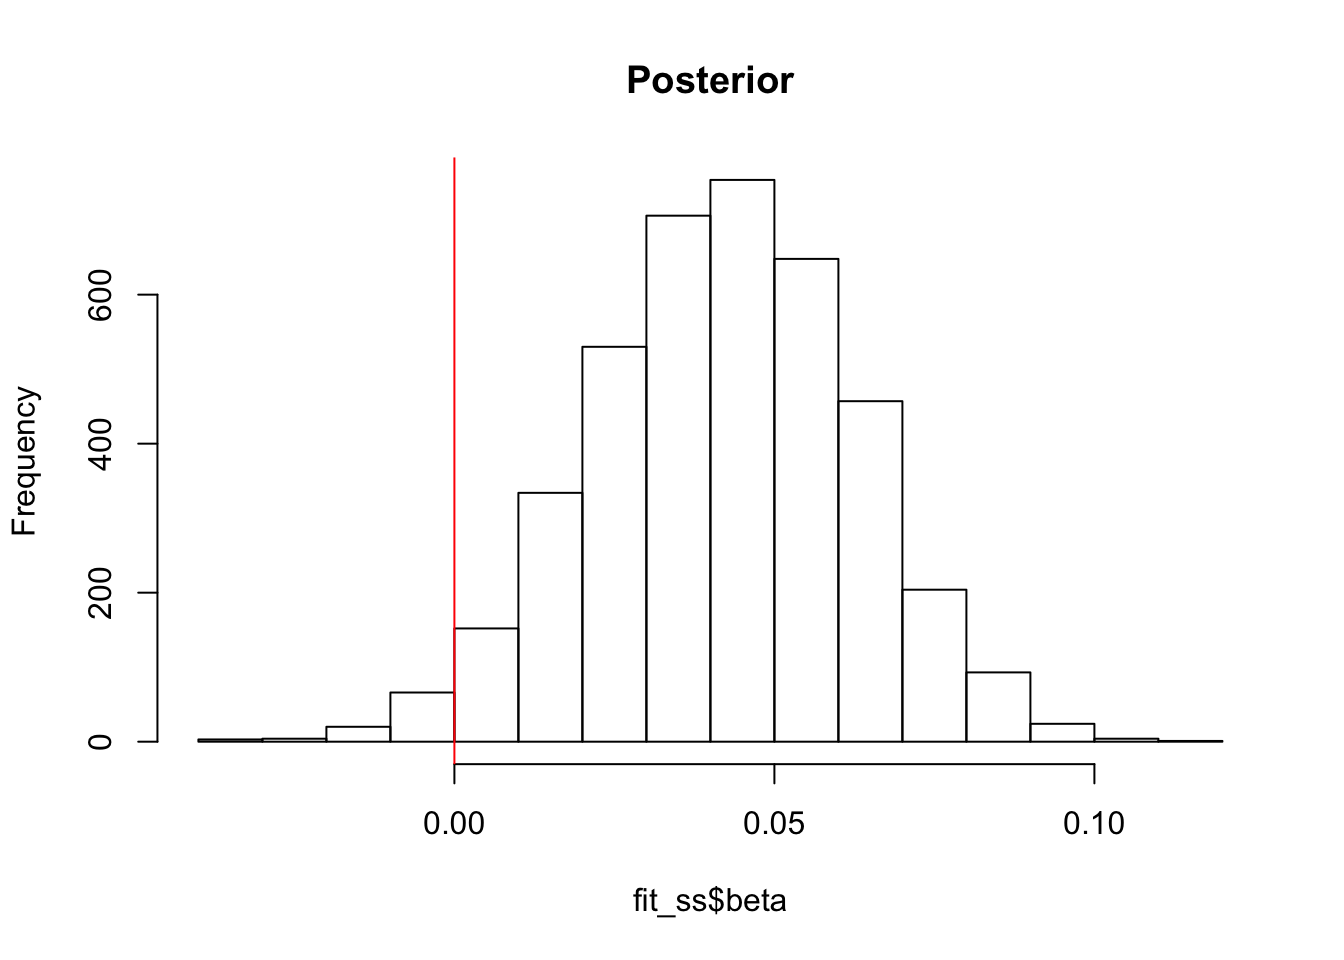
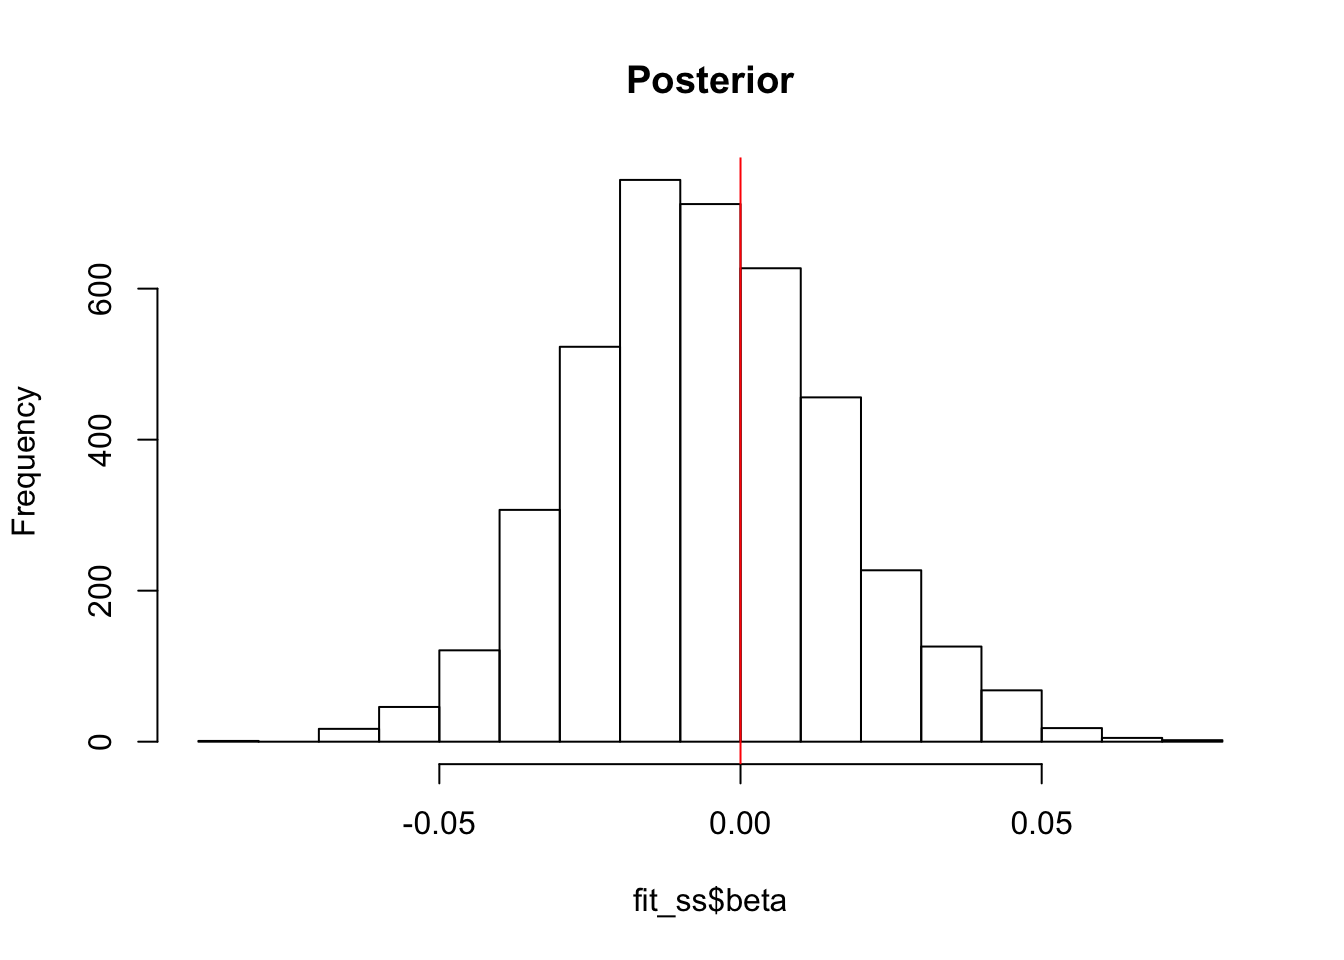
Build site.

diff --git a/docs/STAN_model_strat.html b/docs/STAN_model_strat.html
@@ -411,7 +411,7 @@ div.section {
 <div class="tab-content">
 <div id="summary" class="tab-pane fade in active">
 <p>
-<strong>Last updated:</strong> 2020-05-12
+<strong>Last updated:</strong> 2020-06-01
 </p>
 <p>
 <strong>Checks:</strong> <span class="glyphicon glyphicon-ok text-success" aria-hidden="true"></span> 7 <span class="glyphicon glyphicon-exclamation-sign text-danger" aria-hidden="true"></span> 0
@@ -502,10 +502,10 @@ This reproducible <a href="http://rmarkdown.rstudio.com">R Markdown</a> analysis
 <div class="panel panel-default">
 <div class="panel-heading">
 <p class="panel-title">
-<a data-toggle="collapse" data-parent="#workflowr-checks" href="#strongRepositoryversionstrongahrefhttpsgithubcomjgblancinfermutationalbiastree2a19adc1366f5d9d9cecd613b36caec96a5ce837targetblank2a19adca"> <span class="glyphicon glyphicon-ok text-success" aria-hidden="true"></span> <strong>Repository version:</strong> <a href="https://github.com/jgblanc/infer_mutational_bias/tree/2a19adc1366f5d9d9cecd613b36caec96a5ce837" target="_blank">2a19adc</a> </a>
+<a data-toggle="collapse" data-parent="#workflowr-checks" href="#strongRepositoryversionstrongahrefhttpsgithubcomjgblancinfermutationalbiastreed9fae30d08d966d1d2844a6e1fcbbceb0c46ad9atargetblankd9fae30a"> <span class="glyphicon glyphicon-ok text-success" aria-hidden="true"></span> <strong>Repository version:</strong> <a href="https://github.com/jgblanc/infer_mutational_bias/tree/d9fae30d08d966d1d2844a6e1fcbbceb0c46ad9a" target="_blank">d9fae30</a> </a>
 </p>
 </div>
[2 lines of base64/hex data omitted]
 <div class="panel-body">
 <p>
 Great! You are using Git for version control. Tracking code development and connecting the code version to the results is critical for reproducibility. The version displayed above was the version of the Git repository at the time these results were generated. <br><br> Note that you need to be careful to ensure that all relevant files for the analysis have been committed to Git prior to generating the results (you can use <code>wflow_publish</code> or <code>wflow_git_commit</code>). workflowr only checks the R Markdown file, but you know if there are other scripts or data files that it depends on. Below is the status of the Git repository when the results were generated:
@@ -526,10 +526,9 @@ Ignored files:
     Ignored:    code/parse_gwas_atlas_nonsig/.DS_Store
     Ignored:    data/.ipynb_checkpoints/
     Ignored:    data/1000G_20101123_v3_GIANT_chr1_23_minimacnamesifnotRS_CEU_MAF0.01/
-    Ignored:    data/47UKBB/
     Ignored:    data/ALL.chr1.phase3_shapeit2_mvncall_integrated_v5a.20130502.genotypes.EUR/
-    Ignored:    data/BBJ/
     Ignored:    data/GWAS_ATLAS/
+    Ignored:    data/LD_Blocks/
     Ignored:    data/STRAT/
     Ignored:    data/UKBB/
     Ignored:    output/.DS_Store
@@ -599,10 +598,22 @@ Untracked files:
     Untracked:  .snakemake/metadata/b3V0cHV0L0dXQVNfQVRMQVMvcHJ1bmVkL2hlaWdodF8xNDJfMC4wMDAxLnBydW5lLmlu
     Untracked:  .snakemake/metadata/b3V0cHV0L0dXQVNfQVRMQVMvcHJ1bmVkL3NjaGl6b3BocmVuaWFfMzk4Ml8wLjAwMDEucHJ1bmUuaW4=
     Untracked:  .snakemake/scripts/tmp7997be50.get_evolutionary_information_from_1kg_GWAS_ATLAS.py
+    Untracked:  analysis/GWAS_Atlas_LD_Blocks.Rmd
+    Untracked:  analysis/Instrumental_variable.Rmd
+    Untracked:  analysis/LD_Block_Jacknife.Rmd
     Untracked:  analysis/test.Rmd
+    Untracked:  code/LD_Block/
     Untracked:  code/parse_gwas_atlas_nonsig/height_142.R
+    Untracked:  code/pc_regression.rds
+    Untracked:  code/pc_regression.stan
+    Untracked:  code/pc_regression_da.rds
+    Untracked:  code/pc_regression_da.stan
+    Untracked:  code/pc_regression_gwas.R
+    Untracked:  code/pc_regression_parameters.R
     Untracked:  code/rsID_Pos_conversion.py
     Untracked:  code/rsID_Pos_conversion.py~
+    Untracked:  output/GWAS_ATLAS_ANNOTATED/
+    Untracked:  output/PC_REG/
 
 Unstaged changes:
     Modified:   .snakemake/metadata/b3V0cHV0L1NUUkFUL3BydW5lZC9jaHIxX0VVUl8wLjA1LmVpZ2VudmVjLnZhci5EQS5wcnVuZS5pbg==
@@ -614,6 +625,10 @@ Unstaged changes:
     Modified:   analysis/GWAS_ATLAS_results.Rmd
     Modified:   analysis/Stratification.Rmd
     Modified:   analysis/shift_GWAS_ATLAS.Rmd
+    Deleted:    code/Untitled.ipynb
+    Deleted:    code/make_DA_dict.py
+    Deleted:    code/make_DA_dict.py~
+    Modified:   code/parse_gwas_atlas/schizophrenia_3982.R
     Modified:   code/parse_gwas_atlas_nonsig/CAD_3925.R
     Modified:   code/parse_gwas_atlas_nonsig/T2D_4085.R
     Modified:   code/parse_gwas_atlas_nonsig/UC_2030.R
@@ -658,6 +673,40 @@ Message
 </tr>
 </thead>
 <tbody>
+<tr>
+<td>
+Rmd
+</td>
+<td>
+<a href="https://github.com/jgblanc/infer_mutational_bias/blob/d9fae30d08d966d1d2844a6e1fcbbceb0c46ad9a/analysis/STAN_model_strat.Rmd" target="_blank">d9fae30</a>
+</td>
+<td>
+jgblanc
+</td>
+<td>
+2020-06-01
+</td>
+<td>
+work
+</td>
+</tr>
+<tr>
+<td>
+html
+</td>
+<td>
+<a href="https://rawcdn.githack.com/jgblanc/infer_mutational_bias/9222112d705e427a763601d5bde4e9ed88e19ac7/docs/STAN_model_strat.html" target="_blank">9222112</a>
+</td>
+<td>
+jgblanc
+</td>
+<td>
+2020-05-12
+</td>
+<td>
+Build site.
+</td>
+</tr>
 <tr>
 <td>
 Rmd
@@ -750,14 +799,15 @@ added new stan model
 </div>
 </div>
 </div>
-<div id="intro" class="section level2">
-<h2>Intro</h2>
+<div id="model" class="section level2">
+<h2>Model</h2>
 <p>Model:</p>
-<p><span class="math display">\[\vec{\hat{\beta}} = \vec{\beta_T} + \sum_i \lambda_i^{1/2} \vec{V} \beta_i + \vec{e}\]</span></p>
+<p><span class="math display">\[\vec{\hat{\beta}} = \vec{\beta_T} + \sum_i \lambda_i^{-1/2} \vec{V} \beta_i + \vec{e}\]</span></p>
 <p><span class="math display">\[D_l = 1 \text{   if  } \beta_l &gt; 0\]</span> <span class="math display">\[D_l = 0 \text{   if  } \beta_l &lt; 0\]</span></p>
 <p><span class="math display">\[R = \sum_lD_l\]</span></p>
 <p><span class="math display">\[R \sim Bin(1/2, L)\]</span></p>
-<p><span class="math display">\[\hat{\beta} = \beta + \sum_i \lambda_i^{1/2} V \beta_i + e\]</span></p>
+<p>For a single site:</p>
+<p><span class="math display">\[\hat{\beta} = \beta + \sum_i \lambda_i^{-1/2} V \beta_i + e\]</span></p>
 </div>
 <div id="functions-to-simulate-data" class="section level2">
 <h2>Functions to Simulate Data</h2>
@@ -789,7 +839,7 @@ added new stan model
 <pre class="stan"><code>functions {  
   real my_ll_lpmf(int R, int L, real b){
     real lprob;
-    lprob = lchoose(L, R) + log((b)^(R)) + log((1 - b)^(L - R));
+    lprob = lchoose(L, R) + (R*log(b)) + ((L - R)*log(1 - b));
     return lprob;
   }
 }
@@ -810,7 +860,6 @@ model {
   real true_causal;
   R = 0;
   est_beta = x*beta;
-  //print(R, true_beta);
   for (i in 1:L) {
     true_causal = y[i] - est_beta[i];
     if (true_causal &gt; 0) {
@@ -830,7 +879,7 @@ model {
   loadings &lt;- simulate_loadings(L = L, n = n, loading_mean = loading_mean, loading_sd = loading_sd)
   Bhat &lt;- calc_beta_hat(L = L, n = n, Btrue = Btrue, Bpc = Bpc, epsilon_sd = epsilon_sd, loadings = loadings)
   data &lt;- list(y = Bhat, L = L, n = n, x = t(loadings), b=b)
-  fit &lt;- sampling(simple, data = data, refresh = 0, chains=4)
+  fit &lt;- sampling(simple, data = data, chains=4, refresh = 0) #refresh = 0
   return(fit)
 }</code></pre>
 </div>
@@ -923,17 +972,9 @@ jgblanc
 </div>
 </div>
 <p>4 PCs no effects</p>
-<pre class="r"><code>mod &lt;- fit_model(L = 1000, n = 4, loading_mean = 1, loading_sd = 1, Bpc = rep(0,4), epsilon_sd = 1, Btrue = rep(0, 1000), b=0.5)</code></pre>
-<pre><code>Warning: There were 3950 transitions after warmup that exceeded the maximum treedepth. Increase max_treedepth above 10. See
-http://mc-stan.org/misc/warnings.html#maximum-treedepth-exceeded</code></pre>
-<pre><code>Warning: Examine the pairs() plot to diagnose sampling problems</code></pre>
-<pre><code>Warning: Bulk Effective Samples Size (ESS) is too low, indicating posterior means and medians may be unreliable.
-Running the chains for more iterations may help. See
-http://mc-stan.org/misc/warnings.html#bulk-ess</code></pre>
-<pre><code>Warning: Tail Effective Samples Size (ESS) is too low, indicating posterior variances and tail quantiles may be unreliable.
-Running the chains for more iterations may help. See
-http://mc-stan.org/misc/warnings.html#tail-ess</code></pre>
-<pre class="r"><code>fit_ss &lt;- extract(mod)
+<pre class="r"><code>mod &lt;- fit_model(L = 1000, n = 4, loading_mean = 1, loading_sd = 1, Bpc = rep(0,4), epsilon_sd = 1, Btrue = rep(0, 1000), b=0.5)
+
+fit_ss &lt;- extract(mod)
 beta &lt;- fit_ss$beta
 par(mfrow = c(2,2))
 hist(beta[,1])
@@ -1056,6 +1097,112 @@ jgblanc
 </table>
 </div>
 </div>
+</div>
+<div id="real-loading-data" class="section level2">
+<h2>Real Loading Data</h2>
+<p>Now that we have tested our model on simulated data, let’s use real SNP loadings and eigenvalues but stick with a simulated GWAS where there are no true causal SNPs. We will run the model for 1,000 SNPs and n=10 PCs</p>
+<pre class="r"><code># Load SNP Loadings + Eigenvalues 
+gwas &lt;- fread(&quot;../output/GWAS_ATLAS_ANNOTATED/test_loadings.txt&quot;)
+evals &lt;- fread(&quot;../output/GWAS_ATLAS_ANNOTATED/EUR_0.01.eigenval&quot;)
+
+# Take 1,000 SNPS and only the loadings
+loadings &lt;- as.matrix(gwas[1:1000,21:30])
+
+# Mean Loading for all 10 PCs
+colMeans(loadings)</code></pre>
+<pre><code>        PC1         PC2         PC3         PC4         PC5         PC6 
+-0.04021341  0.01811280  0.02114615 -0.04767877 -0.02810305  0.03964168 
+        PC7         PC8         PC9        PC10 
+-0.03706557  0.04877190 -0.01101306  0.04824812 </code></pre>
+<pre class="r"><code># Simulate a set of Beta Hats with all Bpc = 0
+Bhat &lt;- calc_beta_hat(L=nrow(loadings), n=10, Btrue = rep(0,nrow(loadings)), Bpc = rep(0,10), epsilon_sd = 1, loadings = t(loadings))
+
+# Weight loadings by sqrt(eigenvalue)
+wloadings &lt;- loadings
+for (i in 1:10) {
+  wloadings[,i] &lt;- as.numeric(sqrt(evals[i,1])) * loadings[,i]
+}
+
+# Fit Model 
+data &lt;- list(y = Bhat, L = nrow(wloadings), n = 10, x = loadings, b=0.5)
+fit &lt;- sampling(simple, data = data, chains=4, refresh = 0)</code></pre>
+<pre class="r"><code># Extract posterior samples
+fit_ss &lt;- extract(fit)$beta
+
+# Posterior Means
+bpos &lt;- colMeans(fit_ss)
+bpos</code></pre>
+<pre><code> [1] -0.010058215  0.038589907  0.038404114  0.006984415  0.029433218
+ [6]  0.044376371  0.063833628  0.018800777  0.013935411  0.007542575</code></pre>
+<pre class="r"><code># Calculate True Effect Sizes (should be 0)
+true &lt;- Bhat -  wloadings %*% bpos
+hist(true)</code></pre>
+<p><img src="figure/STAN_model_strat.Rmd/unnamed-chunk-12-1.png" width="672" style="display: block; margin: auto;" /></p>
+<p>Now let’s repeat the whole process but also simulate a stratification effect along PC 2 <span class="math inline">\(\beta_{PC2} = 1\)</span></p>
+<pre class="r"><code># Simulate a set of Beta Hats with all Bpc = 0
+Bpc &lt;- rep(0,10)
+Bpc[2] &lt;- 1
+Bhat &lt;- calc_beta_hat(L=nrow(loadings), n=10, Btrue = rep(0,nrow(loadings)), Bpc = Bpc, epsilon_sd = 1, loadings = t(loadings))
+
+# Fit Model 
+data &lt;- list(y = Bhat, L = nrow(wloadings), n = 10, x = loadings, b=0.5)
+fit &lt;- sampling(simple, data = data, chains=4, refresh = 0 )</code></pre>
+<pre class="r"><code># Extract posterior samples
+fit_ss &lt;- extract(fit)$beta
+
+# Posterior Means
+bpos &lt;- colMeans(fit_ss)
+bpos</code></pre>
+<pre><code> [1] -0.074465397  1.002352839 -0.022841057  0.060906720 -0.013521199
+ [6]  0.026057472 -0.037018837  0.005576999 -0.064826509  0.012216425</code></pre>
+<pre class="r"><code># Calculate True Effect Sizes (should be 0)
+true &lt;- Bhat -  wloadings %*% bpos
+hist(true)</code></pre>
+<p><img src="figure/STAN_model_strat.Rmd/unnamed-chunk-14-1.png" width="672" style="display: block; margin: auto;" /></p>
+</div>
+<div id="real-gwas-data" class="section level2">
+<h2>Real GWAS Data</h2>
+<p>Finally, we will use actual GWAS effect size estimates. Like the loadings, all effect sizes have been polarized to be the effect of the derived allele. For now, we will run the model on a single LD block (num_snps = 1368) with 10 principal components.</p>
+<pre class="r"><code># Pick single LD block
+gwas_block &lt;- subset(gwas, gwas$LD_Block == 653)
+
+# Mean Loading 
+loadings &lt;- as.matrix(gwas_block[,21:30])
+colMeans(loadings)</code></pre>
+<pre><code>         PC1          PC2          PC3          PC4          PC5          PC6 
+ 0.005813129 -0.158050840  0.253824005 -0.173507468  0.210143126  0.410926552 
+         PC7          PC8          PC9         PC10 
+-0.082428311  0.188188663  0.059780068 -0.212362135 </code></pre>
+<pre class="r"><code># Look at Manhattan Plot 
+dat &lt;- gwas_block[,c(&quot;BP&quot;, &quot;P&quot;, &quot;Risk_Derived&quot;, &quot;RAF&quot;, &quot;ES_Derived&quot;)]
+ggplot(dat, aes(x=BP,y=-log10(P), col = Risk_Derived)) + geom_point()</code></pre>
+<p><img src="figure/STAN_model_strat.Rmd/unnamed-chunk-15-1.png" width="672" style="display: block; margin: auto;" /></p>
+<pre class="r"><code>ggplot(dat, aes(x=RAF,y=abs(ES_Derived), col = Risk_Derived)) + geom_point()</code></pre>
+<p><img src="figure/STAN_model_strat.Rmd/unnamed-chunk-15-2.png" width="672" style="display: block; margin: auto;" /></p>
+<pre class="r"><code># Weight loadings by sqrt(eigenvalue)
+wloadings &lt;- loadings
+for (i in 1:10) {
+  wloadings[,i] &lt;- as.numeric(sqrt(evals[i,1])) * loadings[,i]
+}
+
+# Fit Model 
+data &lt;- list(y = gwas_block$ES_Derived, L = nrow(wloadings), n = 10, x = loadings, b=0.5)
+#fit &lt;- sampling(simple, data = data, chains=4)
+#saveRDS(fit,&quot;~/Desktop/stan_block653&quot;)</code></pre>
+<pre class="r"><code>fit &lt;- readRDS(&quot;~/Desktop/stan_block653&quot;)
+# Posterior Means 
+bs &lt;- as.matrix(extract(fit)$beta) 
+bpos &lt;- colMeans(bs)
+
+# Calculate True beta
+true &lt;- gwas_block$ES_Derived - wloadings %*% bpos
+gwas_block$true &lt;- true
+
+# Plot
+ggplot(gwas_block, aes(x=RAF,y=abs(true), col = Risk_Derived)) + geom_point()</code></pre>
+<p><img src="figure/STAN_model_strat.Rmd/unnamed-chunk-17-1.png" width="672" style="display: block; margin: auto;" /></p>
+<pre class="r"><code>ggplot(gwas_block, aes(x=ES_Derived,y=true, col = Risk_Derived)) + geom_point()</code></pre>
+<p><img src="figure/STAN_model_strat.Rmd/unnamed-chunk-17-2.png" width="672" style="display: block; margin: auto;" /></p>
 <br>
 <p>
 <button type="button" class="btn btn-default btn-workflowr btn-workflowr-sessioninfo" data-toggle="collapse" data-target="#workflowr-sessioninfo" style="display: block;">
@@ -1079,8 +1226,8 @@ attached base packages:
 [1] stats     graphics  grDevices utils     datasets  methods   base     
 
 other attached packages:
-[1] rstan_2.19.3         ggplot2_3.2.1        StanHeaders_2.21.0-1
-[4] workflowr_1.6.0     
+[1] data.table_1.12.8    rstan_2.19.3         ggplot2_3.2.1       
+[4] StanHeaders_2.21.0-1 workflowr_1.6.0     
 
 loaded via a namespace (and not attached):
  [1] Rcpp_1.0.3         compiler_3.6.2     pillar_1.4.3       later_1.0.0       
@@ -1088,15 +1235,15 @@ loaded via a namespace (and not attached):
  [9] digest_0.6.25      evaluate_0.14      lifecycle_0.1.0    tibble_2.1.3      
 [13] gtable_0.3.0       pkgconfig_2.0.3    rlang_0.4.4        cli_2.0.1         
 [17] parallel_3.6.2     yaml_2.2.1         xfun_0.12          loo_2.2.0         
-[21] gridExtra_2.3      withr_2.1.2        stringr_1.4.0      dplyr_0.8.4       
+[21] gridExtra_2.3      withr_2.1.2        stringr_1.4.0      dplyr_0.8.5       
 [25] knitr_1.28         fs_1.3.1           stats4_3.6.2       rprojroot_1.3-2   
 [29] grid_3.6.2         tidyselect_1.0.0   inline_0.3.15      glue_1.3.1        
 [33] R6_2.4.1           processx_3.4.2     fansi_0.4.1        rmarkdown_2.1     
-[37] callr_3.4.2        purrr_0.3.3        magrittr_1.5       whisker_0.4       
-[41] codetools_0.2-16   matrixStats_0.56.0 ps_1.3.2           backports_1.1.5   
-[45] scales_1.1.0       promises_1.1.0     htmltools_0.4.0    assertthat_0.2.1  
-[49] colorspace_1.4-1   httpuv_1.5.2       stringi_1.4.6      lazyeval_0.2.2    
-[53] munsell_0.5.0      crayon_1.3.4      </code></pre>
+[37] farver_2.0.3       callr_3.4.2        purrr_0.3.3        magrittr_1.5      
+[41] whisker_0.4        codetools_0.2-16   matrixStats_0.56.0 ps_1.3.2          
+[45] backports_1.1.5    scales_1.1.0       promises_1.1.0     htmltools_0.4.0   
+[49] assertthat_0.2.1   colorspace_1.4-1   httpuv_1.5.2       labeling_0.3      
+[53] stringi_1.4.6      lazyeval_0.2.2     munsell_0.5.0      crayon_1.3.4      </code></pre>
 </div>
 </div>
 
